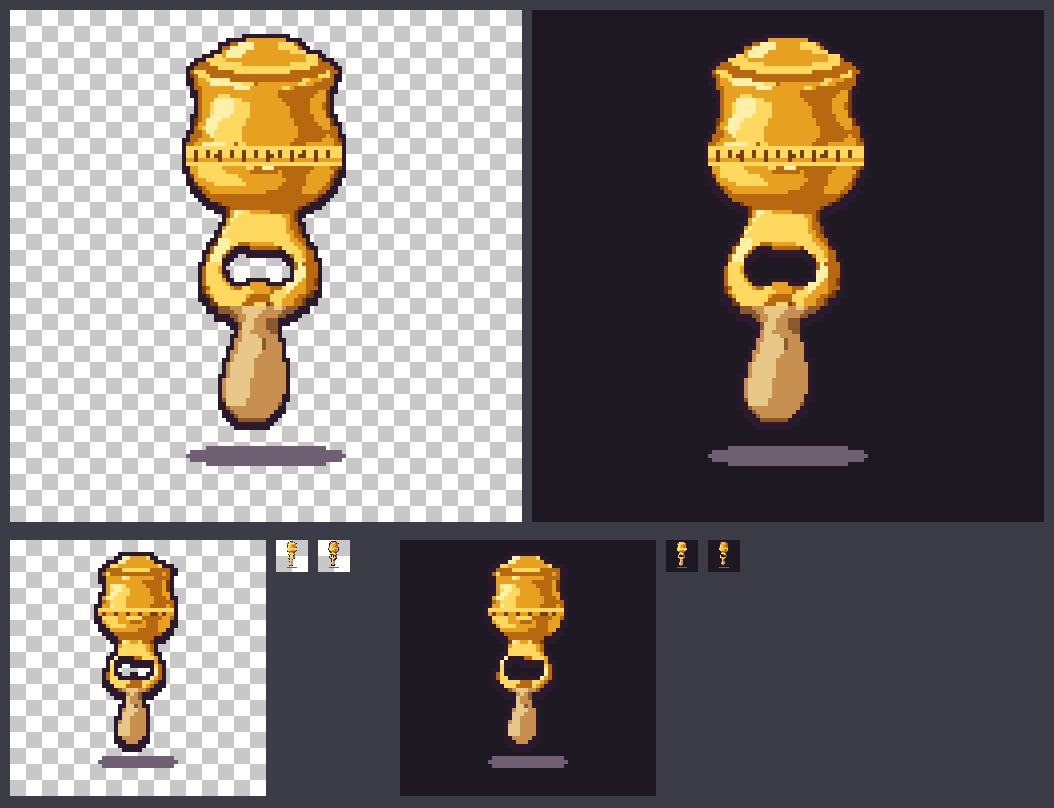
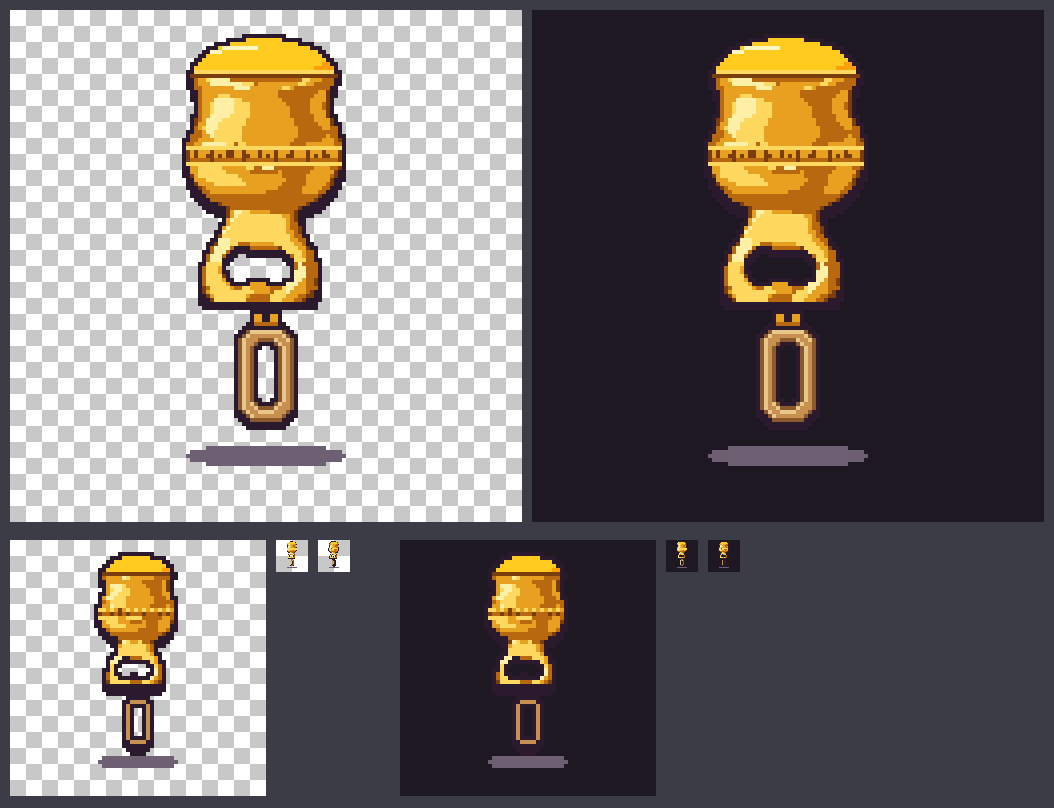
art(shamsterdam): Opener Bottoms Down leather loop, liquid meniscus, band fixes (asset team)
Claude-Session: https://claude.ai/code/session_01Rk2Ri3vAu7TBhRadSU9CbJ

diff --git a/dev/asset_team/prompts/opener_bottoms_down_prompt.md b/dev/asset_team/prompts/opener_bottoms_down_prompt.md
@@ -16,6 +16,13 @@ Outline #2B1A2E, shadow #6E5F72 (redrawn in code). Brass, 5 bands by luminance p
 
 Magenta keyed (opener hole stays transparent), generator shadow cut below raw row 1100, largest component kept, cell-averaged to 98 px tall on a 128 canvas (top at y 6), per-cell class and luminance band, 3x3 majority on bands. Outline on every 8-neighbour boundary plus 1 px under the base; code-drawn elliptical shadow. 64 is a 2x2 majority of the 128 object layer (opaque when 2 of 4 are, so the thin leather loop survives), 8-neighbour edges recoloured, shadow redrawn at 64. Margins: 6/14/43/44 at 128, 3/7/21/22 at 64 (top/bottom/left/right).
 
+## Review fixes (code only, on the 128 master; 64 rebuilt by 2x2 majority, edges and shadow redone)
+
+1. Leather: the solid strap was removed and redrawn as a narrow open loop (16 px wide at 128, hole 4 x 14 px transparent) hanging straight from a small brass eyelet under the opener plate; tan edge #8A5A2E, body #C89050, highlight #E8C888, outline rules kept.
+2. Meniscus: the cap was removed. A thin brass rim line (#FFD860 over #7A3E0C) now carries a low convex dome of liquid amber (#FFCB1F, shade #FF9F0A, one hard highlight streak #FFF6C0), slightly wider than the glass. No lid seam.
+3. Engraved band: the even ticks were replaced by an uneven run of long, short and dot marks (single-width, no letter shapes).
+Result: 13 colours at 128, 10 at 64. Margins 6/14/43/44 at 128, 3/7/21/22 at 64.
+
 ## Choices where the doc is silent
 
 The generated band marks read as faint glyphs after downsampling, so the engraved band was redrawn in code as a plain row of vertical tick marks (no letters). The leather loop reads as a solid strap (its stitch line is lost at this size). Opener plate with oval hole as the stem, as in the generator output. Raw keeps the original marks.
